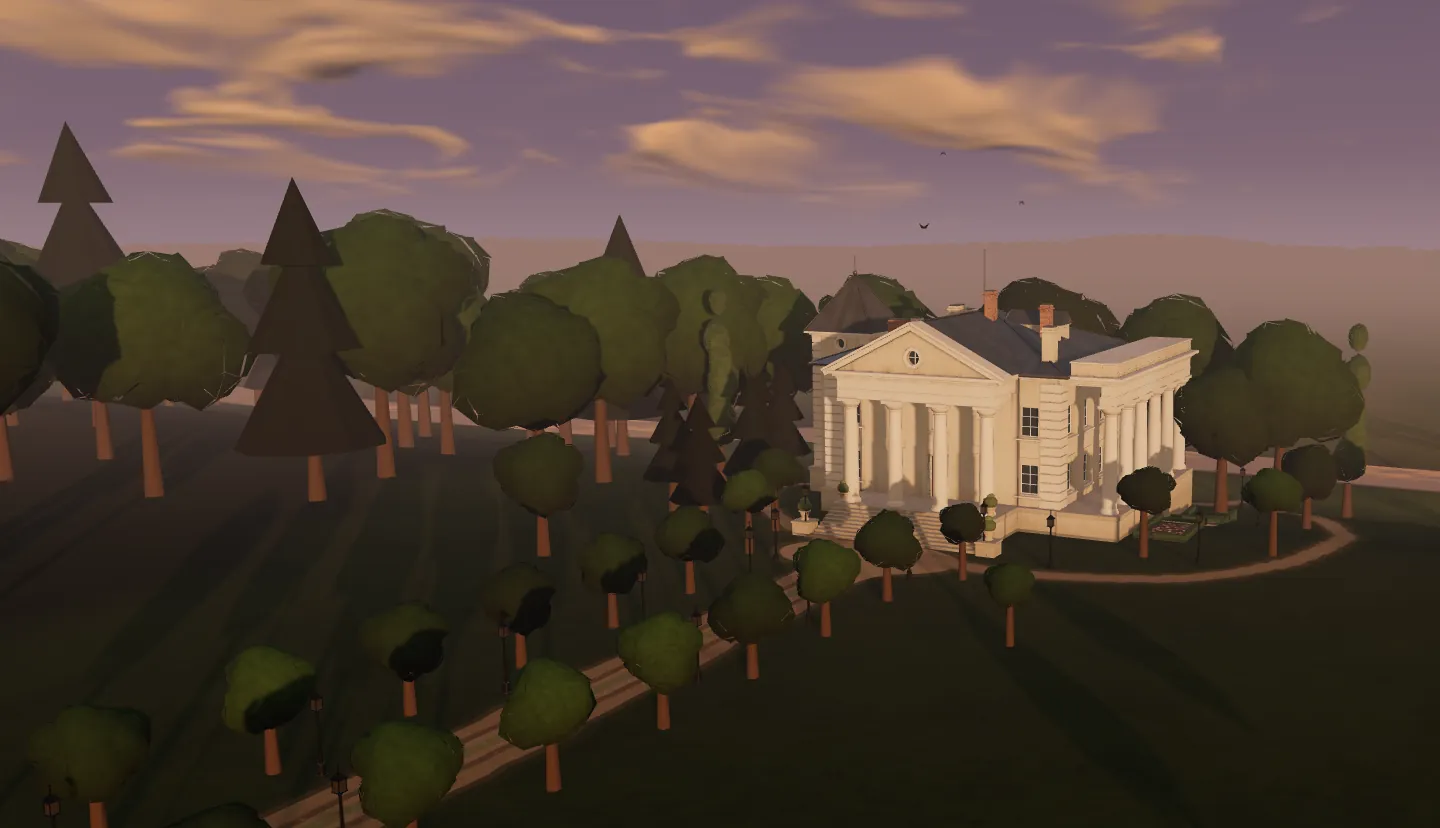
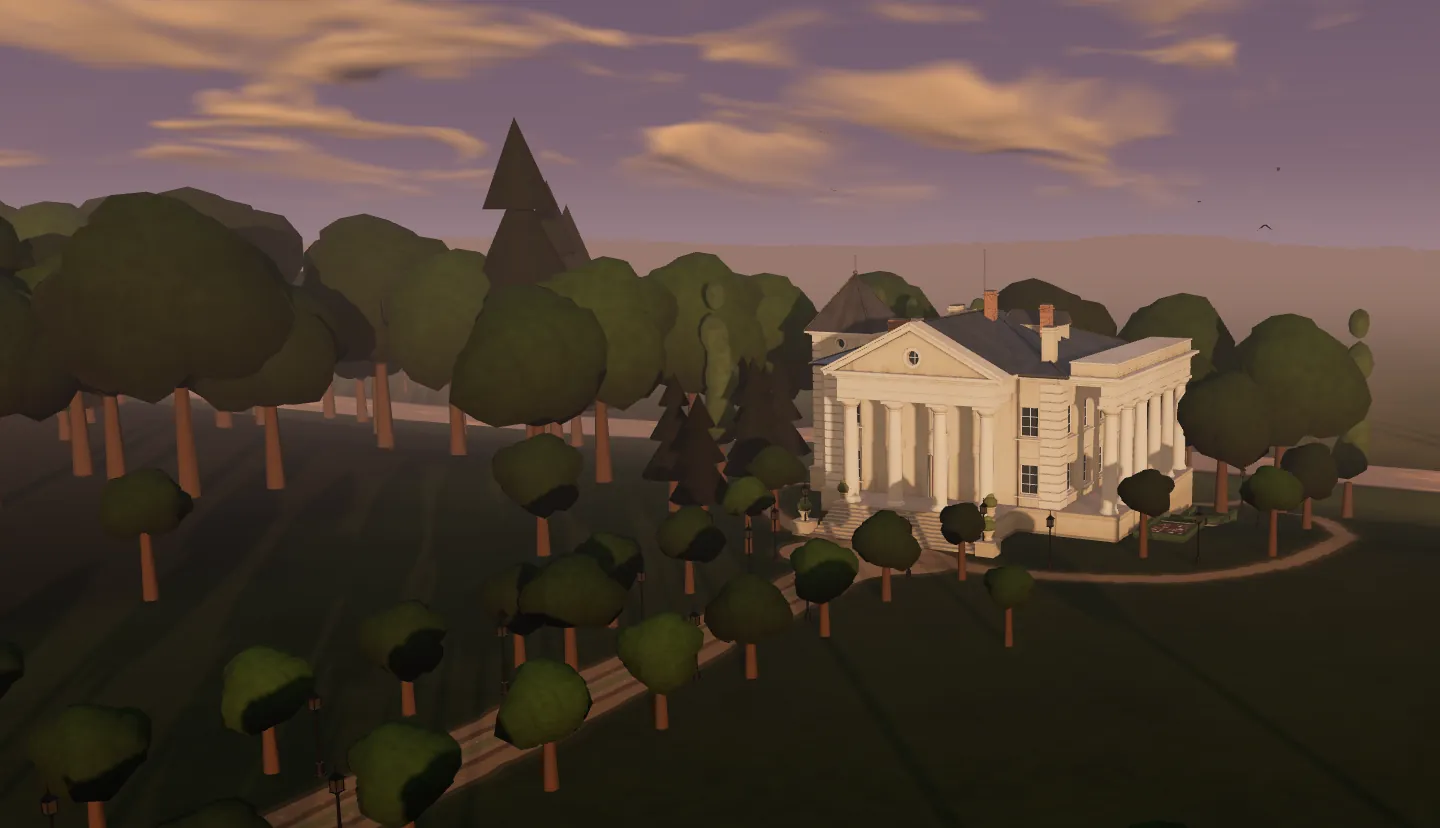
Обкладинка: земля не блищить у дощ і сніг, крони без щілин, жодного велетенського дерева перед камерою
- мокра земля: волога, з легким полиском (roughness .62 замість дзеркальних .16)
- крони: шум зсуву залежить лише від положення вершини, тож спільні вершини граней рухаються разом — без щілин на великих деревах
- дуга, якою камера пливе від заходу до півдня, вільна від дерев
- нові постери

Claude-Session: https://claude.ai/code/session_015E5VkhKKERkWtXctkqCkmF

diff --git a/index.html b/index.html
@@ -351,7 +351,7 @@ a, button, [role="button"], input, select, textarea,
                          aria: '3D-модель церкви Різдва Богородиці. Потягніть убік, щоб обернути.', opts: {view: [-50, 14, 46], targetY: 13.2, fit: innerWidth < 980 ? 1.04 : 1.0}},
                 worobin: {js: 'worobin-3d.js', g: 'Worobin3D', poster: 'worobin-3d-poster.webp', href: 'worobin-3d.html', title: '«Бібліотека» Плятерів у Воробині',
                          sub: 'павільйон, що не зберігся · 3D за світлинами 1914 і\u00a01937\u00a0років', alt: 'Павільйон «Бібліотека» у Воробині — 3D-реконструкція',
-                         aria: '3D-реконструкція павільйону «Бібліотека» у Воробині серед краєвиду над Горинню. Потягніть убік, щоб обернути.', land: 'hero-worobin.js', landPoster: (function(){ var h = +new Date().toLocaleString('en-GB', {timeZone: 'Europe/Kyiv', hour: '2-digit', hour12: false}); return 'worobin-land-' + (h < 6 || h >= 20 ? 'night' : h < 8 || h >= 17 ? 'eve' : 'day') + '.webp?v=4'; })(),
+                         aria: '3D-реконструкція павільйону «Бібліотека» у Воробині серед краєвиду над Горинню. Потягніть убік, щоб обернути.', land: 'hero-worobin.js', landPoster: (function(){ var h = +new Date().toLocaleString('en-GB', {timeZone: 'Europe/Kyiv', hour: '2-digit', hour12: false}); return 'worobin-land-' + (h < 6 || h >= 20 ? 'night' : h < 8 || h >= 17 ? 'eve' : 'day') + '.webp?v=5'; })(),
                          opts: {glb: innerWidth < 980 || (navigator.deviceMemory || 8) < 4 ? 'worobin-1k.glb?v=20261019c' : 'worobin-2k.glb?v=20261019c', view: [-46, 8, 22], targetY: 6.5, fit: innerWidth < 980 ? 1.3 : 1.85, turntable: false, floodK: .1}},
                 mykolai: {js: 'mykolai-3d.js', g: 'Mykolai3D', poster: 'mykolai-3d-poster.webp', href: 'mykolai-3d.html', title: 'Свято-Миколаївська церква',
                          sub: "дерев'яна, збудована 1872 коштом парафіян", alt: 'Свято-Миколаївська церква в Дубровиці — 3D-модель',
@@ -1697,11 +1697,11 @@ g.ULB={open:open,close:close,nav:nav,
   function idle(f){ (window.requestIdleCallback || function(g){ setTimeout(g, 250); })(f, { timeout: 1200 }); }
   function mount3d(){
     var m = window.__hx3d; if (!m){ st.classList.add('nogl'); return; }
-    var sc = document.createElement('script'); sc.src = m.js + '?v=20261125c'; sc.async = true;
+    var sc = document.createElement('script'); sc.src = m.js + '?v=20261125d'; sc.async = true;
     sc.onerror = function(){ st.classList.add('nogl'); };
     sc.onload = function(){
       var G = window[m.g]; if (!G){ st.classList.add('nogl'); return; }
-      var land = m.land ? new Promise(function(res){ var ls = document.createElement('script'); ls.src = m.land + '?v=20261125c'; ls.async = true; ls.onload = res; ls.onerror = function(){ res(); }; document.head.appendChild(ls); }) : Promise.resolve();
+      var land = m.land ? new Promise(function(res){ var ls = document.createElement('script'); ls.src = m.land + '?v=20261125d'; ls.async = true; ls.onload = res; ls.onerror = function(){ res(); }; document.head.appendChild(ls); }) : Promise.resolve();
       var wide = function(){ return innerWidth > 980; };
       G.mount(cv, Object.assign({ zoom: false, touch: 'pan-y', pixelRatio: m.land ? (wide() ? 1.35 : 1.6) : 1.75, shadow: innerWidth < 700 ? 1024 : 2048, motes: !m.land, autoRotateSpeed: m.land ? .35 : .55,
         onStart: function(){ st.classList.add('touched'); },

diff --git a/hero-worobin.js b/hero-worobin.js
@@ -257,7 +257,7 @@ function attach(api, o){
     var P = [], N = [], r = function(i){ var v = Math.sin(seed*91.7 + i*12.989)*43758.5453; return v - Math.floor(v); };
     parts.forEach(function(q, j){ var g = new T.IcosahedronGeometry(q[3], 1).toNonIndexed(), pa = g.attributes.position, na = g.attributes.normal, v = new T.Vector3(), c = new T.Vector3(0, 0, 0);
       for (var i = 0; i < pa.count; i++){ v.fromBufferAttribute(pa, i);
-        var d = 1 + rough*(Math.sin(v.x*5.1 + j*1.7 + seed)*Math.sin(v.y*4.3 + j)*Math.sin(v.z*5.7 + seed*.3)) + rough*.5*(r(i*3 + j*101 + Math.round(v.x*9 + v.y*13 + v.z*7)) - .5);
+        var d = 1 + rough*(Math.sin(v.x*5.1 + j*1.7 + seed)*Math.sin(v.y*4.3 + j)*Math.sin(v.z*5.7 + seed*.3)) + rough*.5*(r(j*101 + Math.round(v.x*9 + v.y*13 + v.z*7)) - .5);   // by position only: no cracks between faces
         v.multiplyScalar(d); v.x += q[0]; v.y += q[1]; v.z += q[2]; pa.setXYZ(i, v.x, v.y, v.z);
         var rn = v.clone().sub(c).normalize(), ln = new T.Vector3().fromBufferAttribute(na, i); ln.lerp(rn, .7).normalize(); na.setXYZ(i, ln.x, ln.y, ln.z); }
       P.push(pa.array); N.push(na.array); });
@@ -303,6 +303,7 @@ function attach(api, o){
     if (oldK > 2 && rnd() < .3) continue;                                            // bigger crowns, a few fewer of them
     var cdx = x2 + 88, cdz = z2 - 37, along = cdx*.915 - cdz*.402, side = cdx*.402 + cdz*.915;   // the first view: from (−88, 37) toward the house
     if (along > 0 && along < 58 && side > -4 && side < 26) continue;                 // keep the near lawn clear, so no crown sits on the caption
+    var th = Math.atan2(ddx, ddz); if (th > -2.45 && th < .3 && rh > 58 && rh < 125) continue;   // nor on the arc the camera drifts along
     add(rnd() < (pk ? .18 : .3) ? 'cone' : 'blob', x2, z2, (1.7 + rnd()*1.2)*Math.min(1.8, .75 + .25*big)*oldK, pk ? 1 : 0);
   }
   /* hedgerows and lone trees on the fields and meadows */
@@ -392,7 +393,7 @@ function attach(api, o){
         var prev = m.onBeforeCompile, key = m.customProgramCacheKey();
         m.onBeforeCompile = function(sh, r){ if (prev) prev.call(this, sh, r); sh.uniforms.uLampP = LAMPU; sh.uniforms.uLampC = LAMPC; sh.uniforms.uLampK = LAMPK; sh.uniforms.uWet = U.uWet;
           sh.fragmentShader = sh.fragmentShader.replace('#include <common>', '#include <common>\nuniform vec4 uLampP[' + NLAMP + '];\nuniform vec3 uLampC;\nuniform float uLampK, uWet;')
-            .replace('#include <normal_fragment_maps>', '#include <normal_fragment_maps>\nif (uWet > 0.001){ float upw = clamp(dot(normal, normalize((viewMatrix*vec4(0.0, 1.0, 0.0, 0.0)).xyz)), 0.0, 1.0); float wt = uWet*smoothstep(.25, .9, upw); diffuseColor.rgb *= 1.0 - .3*wt; roughnessFactor = mix(roughnessFactor, .16, wt*.8); }')
+            .replace('#include <normal_fragment_maps>', '#include <normal_fragment_maps>\nif (uWet > 0.001){ float upw = clamp(dot(normal, normalize((viewMatrix*vec4(0.0, 1.0, 0.0, 0.0)).xyz)), 0.0, 1.0); float wt = uWet*smoothstep(.25, .9, upw); diffuseColor.rgb *= 1.0 - .22*wt; roughnessFactor = mix(roughnessFactor, .62, wt*.6); }')   // damp, with a faint sheen — not a mirror
             .replace('#include <lights_fragment_end>', ['#include <lights_fragment_end>',
               'if (uLampK > 0.001){ vec3 vp = -vViewPosition; float acc = 0.0;',
               '  for (int i = 0; i < ' + NLAMP + '; i++){ vec3 Lv = (viewMatrix*vec4(uLampP[i].xyz, 1.0)).xyz - vp; float d2 = dot(Lv, Lv); if (d2 > 64.0) continue;',
